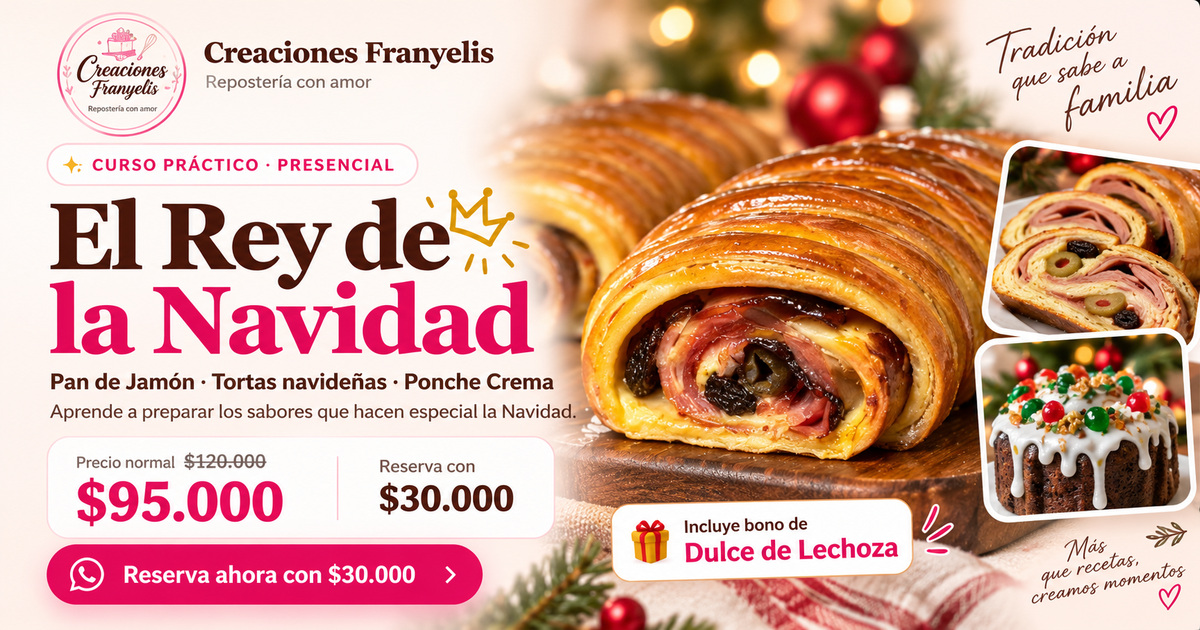
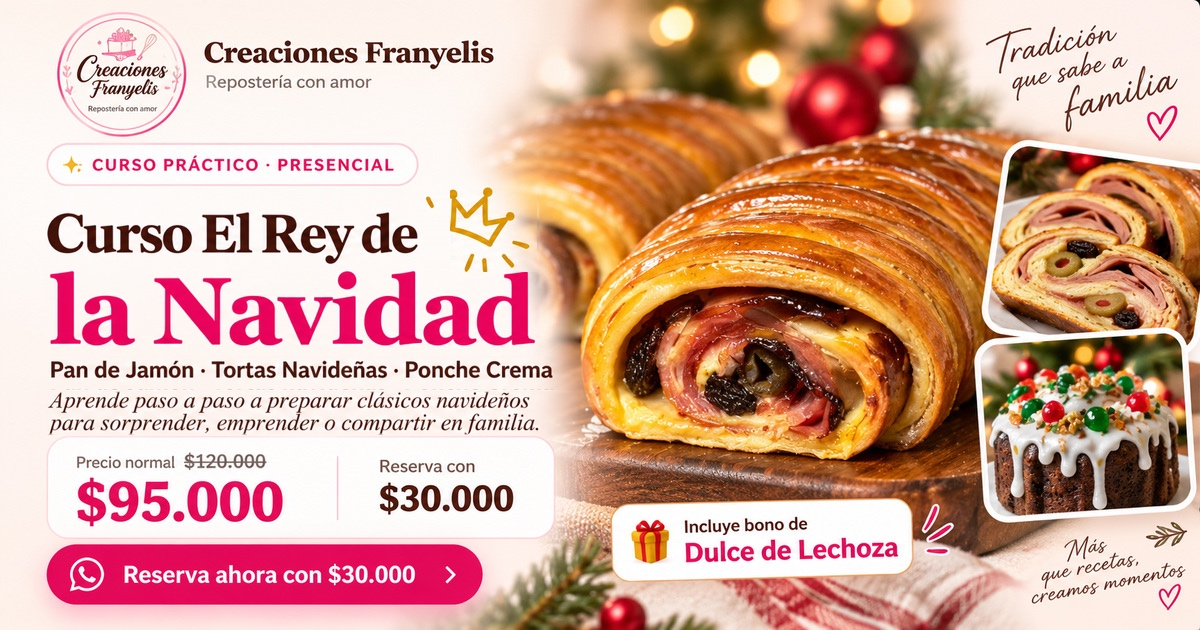
feat: refine course social preview copy

diff --git a/index.html b/index.html
@@ -11,18 +11,18 @@
 <meta property="og:type" content="website">
 <meta property="og:locale" content="es_CL">
 <meta property="og:site_name" content="Creaciones Franyelis">
-<meta property="og:title" content="El Rey de la Navidad | Creaciones Franyelis">
-<meta property="og:description" content="Pan de Jamón, Tortas navideñas y Ponche Crema. Precio promocional $95.000 hasta el 18 de octubre. Reserva con $30.000 e incluye bono de Dulce de Lechoza.">
+<meta property="og:title" content="Curso El Rey de la Navidad">
+<meta property="og:description" content="Aprende paso a paso a preparar clásicos navideños para sorprender, emprender o compartir en familia.">
 <meta property="og:url" content="https://www.creacionesfranyelis.com/">
 <meta property="og:image" content="https://www.creacionesfranyelis.com/assets/images/curso-navideno-social.jpg">
 <meta property="og:image:secure_url" content="https://www.creacionesfranyelis.com/assets/images/curso-navideno-social.jpg">
 <meta property="og:image:type" content="image/jpeg">
 <meta property="og:image:width" content="1200">
 <meta property="og:image:height" content="630">
-<meta property="og:image:alt" content="El Rey de la Navidad, curso práctico presencial de Creaciones Franyelis: precio $95.000, reserva $30.000 e incluye bono de Dulce de Lechoza">
+<meta property="og:image:alt" content="Curso El Rey de la Navidad de Creaciones Franyelis: Pan de Jamón, Tortas Navideñas y Ponche Crema">
 <meta name="twitter:card" content="summary_large_image">
-<meta name="twitter:title" content="El Rey de la Navidad | Creaciones Franyelis">
-<meta name="twitter:description" content="Curso práctico de Pan de Jamón, Tortas navideñas y Ponche Crema. Reserva tu cupo con $30.000.">
+<meta name="twitter:title" content="Curso El Rey de la Navidad">
+<meta name="twitter:description" content="Aprende paso a paso a preparar clásicos navideños para sorprender, emprender o compartir en familia.">
 <meta name="twitter:image" content="https://www.creacionesfranyelis.com/assets/images/curso-navideno-social.jpg">
 <style>
 
